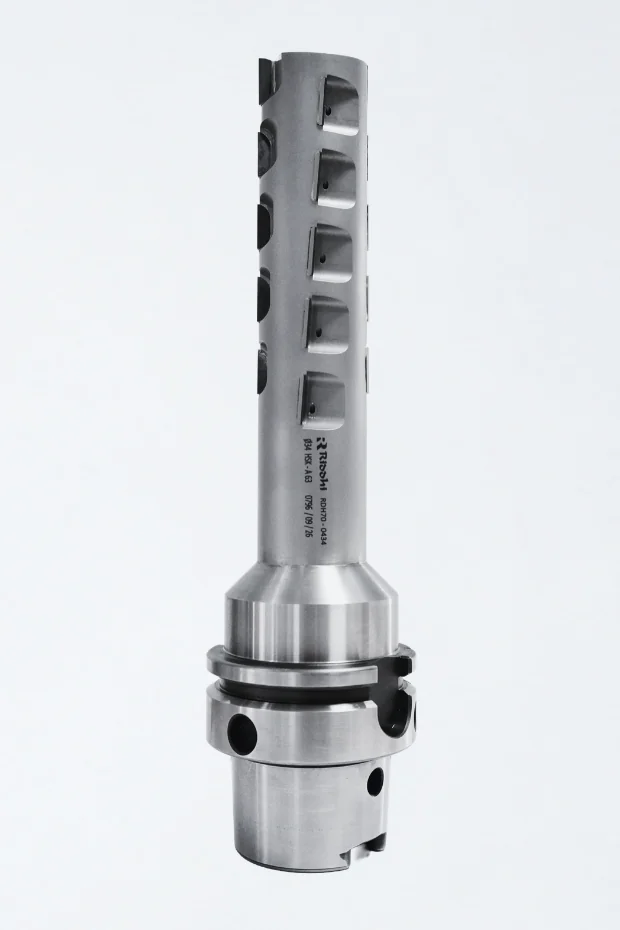
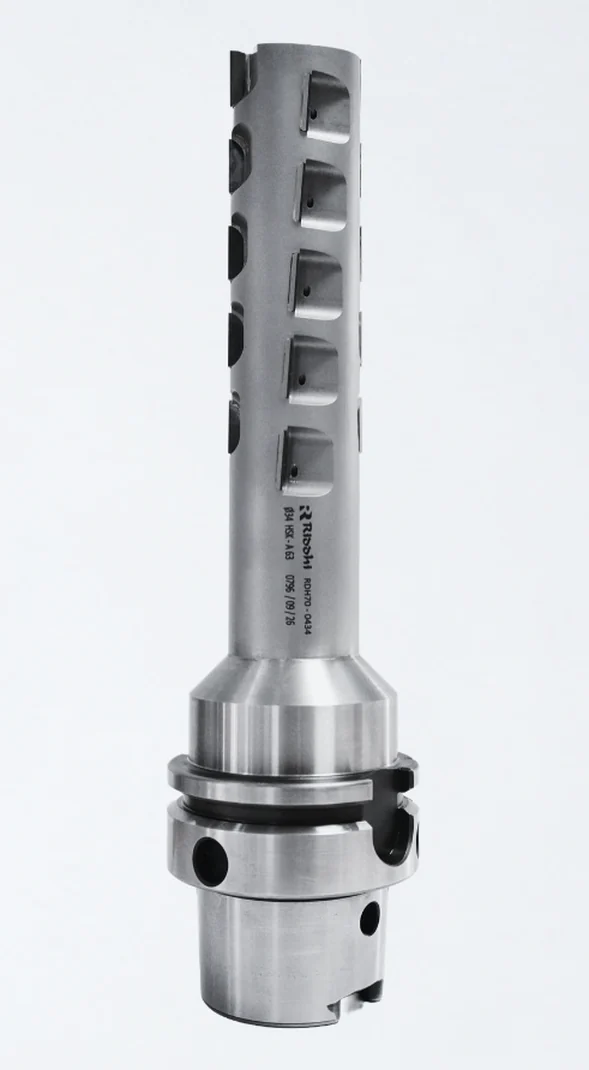
PCD Technology: tool photo larger, tight crop, centred in its column
Tighter crop around the tool, shown 760px tall on desktop (was 720px with
lots of empty backdrop); centred in the column (measured 400/400px) and
340px wide on phones.

Claude-Session: https://claude.ai/code/session_016C8xv39E78frvmbCvcyG3n

Changed region(s): [[0.275, 0.0312, 0.7334, 0.9667]]

diff --git a/src/pages/Products.module.css b/src/pages/Products.module.css
@@ -571,12 +571,13 @@
   .studioHeroHead { padding-top: 28px; padding-bottom: 20px; }
 }
 
-/* Photo on a pale studio backdrop: its edges fade into the section so no box shows. */
+/* Photo on a pale studio backdrop: tight crop shown large in its column, edges faded into the
+   section so no box shows. */
 .softEdgeImg {
-  -webkit-mask-image: radial-gradient(ellipse 70% 72% at 50% 50%, #000 62%, transparent 100%);
-  mask-image: radial-gradient(ellipse 70% 72% at 50% 50%, #000 62%, transparent 100%);
-  max-height: 720px;
-  width: auto !important;
+  -webkit-mask-image: radial-gradient(ellipse 60% 56% at 50% 50%, #000 70%, transparent 100%);
+  mask-image: radial-gradient(ellipse 60% 56% at 50% 50%, #000 70%, transparent 100%);
   margin: 0 auto;
   display: block;
 }
+.detailImage > img.softEdgeImg { width: auto; height: 760px; max-width: 100%; object-fit: contain; }
+@media (max-width: 900px) { .detailImage > img.softEdgeImg { width: min(100%, 340px); height: auto; } }

diff --git a/src/pages/PCDTechnology.tsx b/src/pages/PCDTechnology.tsx
@@ -59,8 +59,8 @@ export default function PCDTechnology() {
               <img
                 src={pcdTechnologyImage}
                 alt="RIDDHI PCD tool on an HSK-A63 holder, with brazed PCD cutting edges set in pockets along the steel body"
-                width={620}
-                height={930}
+                width={589}
+                height={1070}
                 loading="eager"
                 decoding="async"
                 draggable={false}
